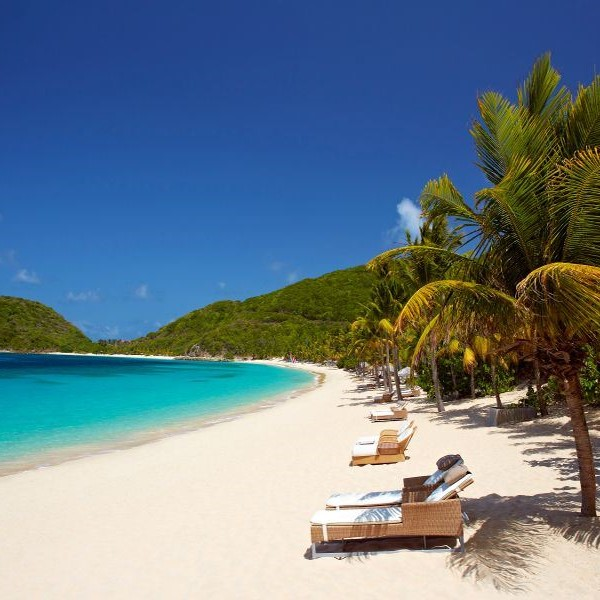
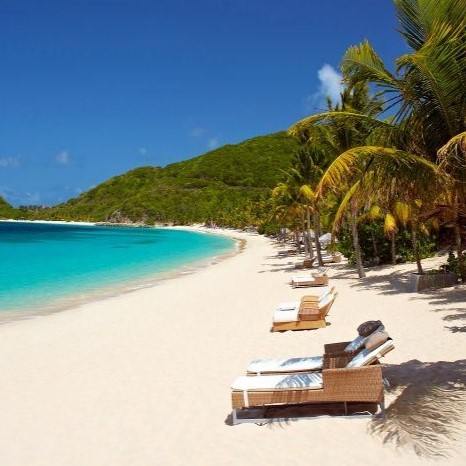
ritmo

diff --git a/charters.html b/charters.html
@@ -37,25 +37,25 @@
     <div class="container-granadines">
       <div class="content-granadines">
           <div class="image-granadines">
-              <img src="img/st-vincent.jpg" alt="Descripción de la imagen">
+              <img src="img/charter-1.jpeg" alt="Descripción de la imagen">
           </div>
           <div class="text">
               <h3>St Vicent & Grenadines</h3>
               <p>Explore the natural beauty of these islands while enjoying luxury and comfort on board. From the majestic mountains of St. Vincent to the white sandy beaches of the Tobago Cays and Mustique, each destination offers a unique experience.</p>
               <div class="grid-container">
-                  <div>
+                  <div class="info">
                       <img src="img/icon-calendario.png" alt="">
                       <p><samp class="charter-text">NEXT SEASON</samp><br> JAN - MAY 2024</p>
                   </div>
-                  <div>
+                  <div class="info">
                       <img src="img/icon-people.png" alt="">
                       <p><samp class="charter-text">CAPACITY</samp> <br>UP TO 6 GUESTS</p>
                   </div>
-                  <div>
+                  <div class="info">
                       <img src="img/icon-premio.png" alt="">
                       <p>Ideal For KiteSurf Trips</p>
                   </div>
-                  <div>
+                  <div class="info">
                       <img src="img/icon-ubication.png" alt="">
                       <p>St Vicent & Grenadine Islands</p>
                   </div>
@@ -74,19 +74,19 @@
             <h3>St Martin & St Barths</h3>
             <p>Discover the unparalleled beauty of these islands while relaxing in the comfort of our vessel. From the vibrant atmosphere of St. Martin to the sophistication of St. Barths, adventures and places that suits everyone.</p>
             <div class="grid-container">
-              <div>
+              <div class="info">
                 <img src="img/icon-calendario.png" alt="">
                 <p><samp class="charter-text">NEXT SEASON</samp>  <br> JUN - AUG 2024</p>
             </div>
-            <div>
+            <div class="info">
               <img src="img/icon-people.png" alt="">
               <p><samp class="charter-text">CAPACITY</samp> <br>UP TO 6 GUESTS</p>
-          </div>
-                <div>
+          </div >
+                <div class="info">
                     <img src="img/icon-premio.png" alt="">
                     <p>Ideal For Friends Trips</p>
                 </div>
-                <div>
+                <div class="info">
                     <img src="img/icon-ubication.png" alt="">
                     <p>St Martin & St Barths</p>
                 </div>
@@ -99,26 +99,26 @@
 <div class="container-granadines">
   <div class="content-granadines">
       <div class="image-granadines">
-          <img src="img/british.jpg" alt="Descripción de la imagen">
+          <img src="img/charter-3.jpg" alt="Descripción de la imagen">
       </div>
       <div class="text">
           <h3>British Virgin Islands</h3>
           <p>From the iconic Baths in Virgin Gorda to the legendary bars of Jost Van Dyke, each island offers its own unique charm and adventure.</p>
           <div class="grid-container">
-              <div>
+              <div class="info">
                   <img src="img/icon-calendario.png" alt="">
                   <p><samp class="charter-text">NEXT SEASON</samp> <br> 
                     JAN - AUG 2024</p>
               </div>
-              <div>
+              <div class="info">
                   <img src="img/icon-people.png" alt="">
                   <p><samp class="charter-text">CAPACITY</samp><br>UP TO 6 GUESTS</p>
               </div>
-              <div>
+              <div class="info">
                   <img src="img/icon-premio.png" alt="">
                   <p>Ideal For First Time Charters</p>
               </div>
-              <div>
+              <div class="info">
                   <img src="img/icon-ubication.png" alt="">
                   <p>British Virgin Islands</p>
               </div>

diff --git a/style.css b/style.css
@@ -223,7 +223,7 @@
   }
   
   .image-container-tow img{
-    width: 550px;
+    width: 650px;
   }
   
   .text-container {
@@ -297,8 +297,8 @@
   }
   
   .text-grid {
-    margin-left: 15px;
-    margin-top: 15%;
+    margin-left: 40px;
+    margin-top: 20%;
   }
   
   .horizontal .carousel-inner {
@@ -799,26 +799,30 @@
   }
   
   .text a {
-    display: block;
-    text-align: center;
-    margin-top: 20px; 
     color: rgb(100, 100, 100);
     font-family: Gotham-Light, sans-serif;
     border: solid 1px rgb(100, 100, 100);
     text-decoration: none;
-    padding: 7px 20px;
+    padding: 7px 20px;   
   }
   
   .text h3{
-    font-family: Gotham-Light, sans-serif;
-  font-size: 30px;
-  color: rgb(85, 85, 85);
+    color: rgb(85, 85, 85);
+    font-family: Gotham-Medium, sans-serif;
+    font-size: 25px;
   }
   
   .text p{
-  text-align: left;
-  color: rgb(100, 100, 100);
-  font-family: Gotham-Light, sans-serif;
+    color: rgb(100, 100, 100);
+    font-size: 20px;
+    font-family: Gotham-Light, sans-serif;
+    margin-bottom: 40px;
+  }
+
+  .info p{
+    color: rgb(100, 100, 100);
+    font-size: 15px;
+    font-family: Gotham-Light, sans-serif;
   }
 
   .charter-text{
